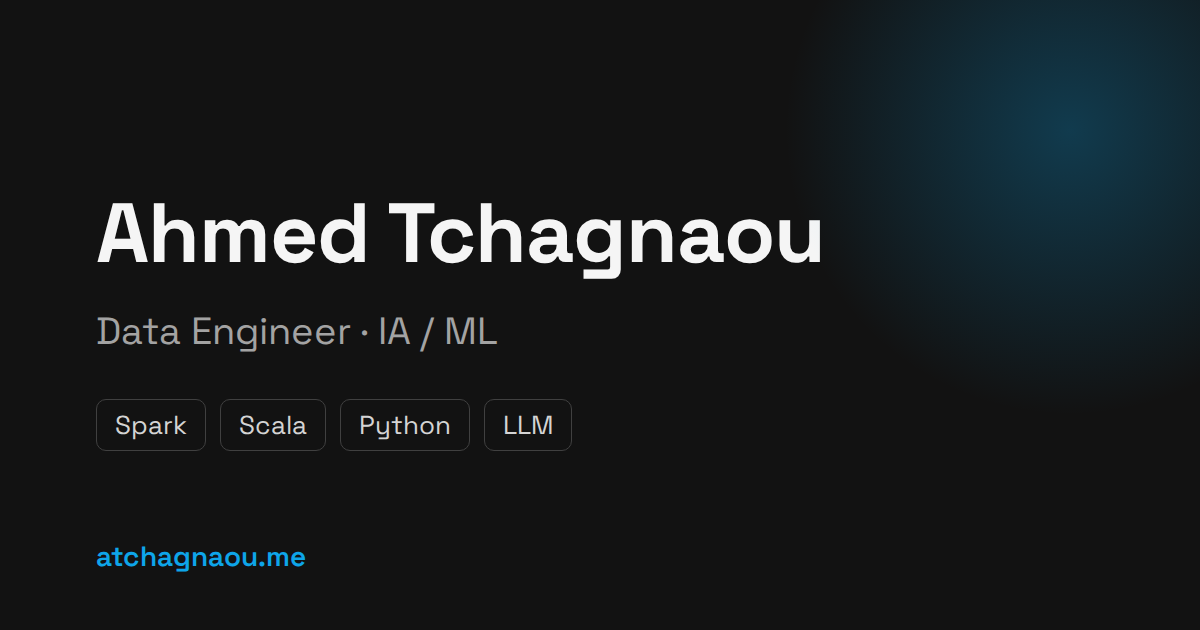
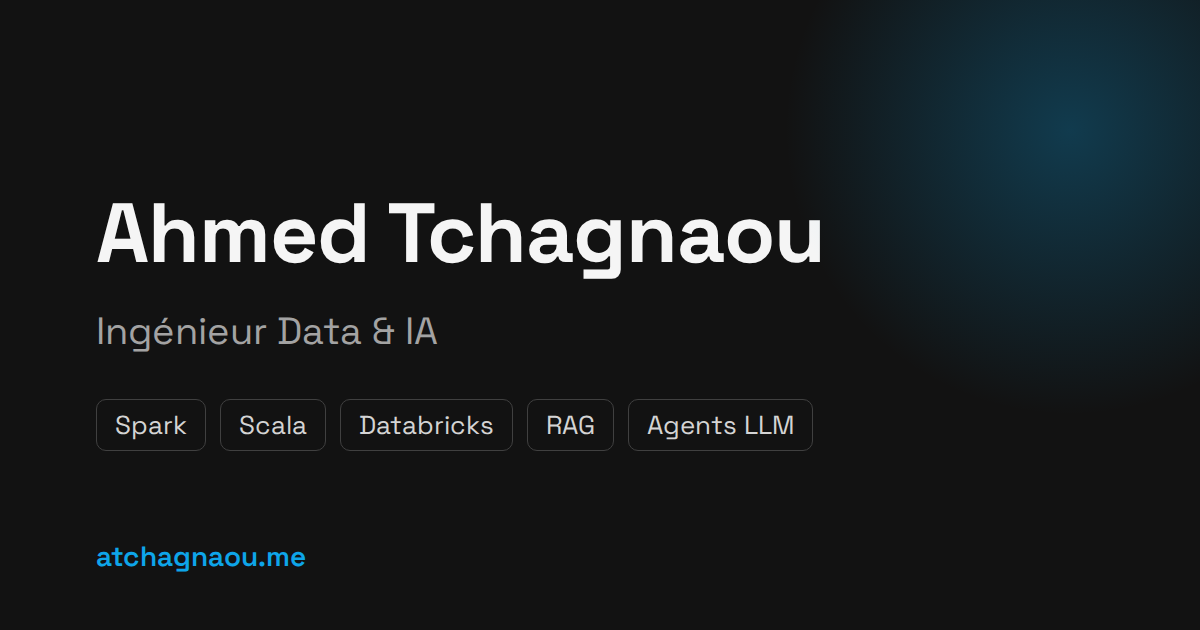
Align portfolio with CV: Data & AI positioning, RAG agent project, detailed experience, Databricks certification

Changed region(s): [[0.0617, 0.4825, 0.4008, 0.573], [0.2775, 0.6333, 0.4933, 0.6937], [0.5242, 0.6635, 0.6783, 0.7238]]

diff --git a/layouts/index.html b/layouts/index.html
@@ -57,14 +57,14 @@
                     <div class="carousel-track carousel-track-left-to-right">
                         {{- range .row1 -}}
                             <div class="carousel-item">
-                                <i class="{{ .icon }}"></i>
+                                {{ with .icon }}<i class="{{ . }}"></i>{{ end }}
                                 <span class="text-xl">{{ .name }}</span>
                             </div>
                         {{- end -}}
                         {{/* Duplicates */}}
                         {{- range .row1 -}}
                             <div class="carousel-item">
-                                <i class="{{ .icon }}"></i>
+                                {{ with .icon }}<i class="{{ . }}"></i>{{ end }}
                                 <span class="text-xl">{{ .name }}</span>
                             </div>
                         {{- end -}}
@@ -75,14 +75,14 @@
                     <div class="carousel-track-reverse">
                         {{- range .row2 -}}
                             <div class="carousel-item">
-                                <i class="{{ .icon }}"></i>
+                                {{ with .icon }}<i class="{{ . }}"></i>{{ end }}
                                 <span class="text-xl">{{ .name }}</span>
                             </div>
                         {{- end -}}
                         {{/* Duplicates */}}
                         {{- range .row2 -}}
                             <div class="carousel-item">
-                                <i class="{{ .icon }}"></i>
+                                {{ with .icon }}<i class="{{ . }}"></i>{{ end }}
                                 <span class="text-xl">{{ .name }}</span>
                             </div>
                         {{- end -}}

diff --git a/layouts/_default/about.html b/layouts/_default/about.html
@@ -21,15 +21,16 @@
                 <h2 class="text-2xl md:text-3xl font-bold mb-4 md:mb-6 text-text-primary-light dark:text-text-primary-dark">{{ i18n "certificationsTitle" }}</h2>
                 <div class="grid grid-cols-1 md:grid-cols-2 gap-4">
                     {{ range $author.certifications }}
-                    <a href="{{ .url }}"
-                       target="_blank"
+                    <a {{ with .url }}href="{{ . }}" target="_blank" rel="noopener noreferrer"{{ end }}
                        class="flex flex-col h-full p-4 md:p-6 rounded-lg bg-bg-primary-light dark:bg-bg-secondary-dark border border-border-primary-light dark:border-border-primary-dark hover:shadow-md transition-all duration-300">
                         <div class="flex items-center justify-between mb-4">
                             <h3 class="inline-flex items-center text-lg md:text-xl font-semibold text-text-primary-light dark:text-text-primary-dark">
                                 {{ .title }}
+                                {{ if .url }}
                                 <svg xmlns="http://www.w3.org/2000/svg" width="16" height="16" viewBox="0 0 24 24" fill="none" stroke="currentColor" stroke-width="2" stroke-linecap="round" stroke-linejoin="round" class="ml-2 opacity-70 group-hover:opacity-100 transition-opacity duration-200">
                                     <path d="M7 17l9.2-9.2M17 17V7H7"/>
                                 </svg>
+                                {{ end }}
                             </h3>
                         </div>
                         <p class="text-text-secondary-light dark:text-text-secondary-dark text-sm prose mb-1">{{ .company }}</p>

diff --git a/content/fr/about.md b/content/fr/about.md
@@ -2,9 +2,10 @@
 title: "À propos de moi"
 draft: false
 layout: "about"
-description: "Une description brève de moi et de mon parcours"
 ---
 
-Ingénieur de données avec près de 5 ans d'expérience en ESN, j'interviens sur des projets à fort enjeu pour des clients grands comptes. Je conçois et maintiens des pipelines de données robustes sur des environnements distribués, avec des volumes allant jusqu'à plusieurs téraoctets.
+Ingénieur Data & IA, j'ai près de 5 ans de data engineering en production chez CGI pour des clients grands comptes : pipelines batch de 2 à 3 To, data lake, contraintes de disponibilité et autonomie sur plusieurs applications.
 
-Passionné par l'ensemble de la chaîne de la donnée, je souhaite évoluer vers un profil full-stack data — à la croisée de l'architecture data, du data engineering et de l'IA/ML — en concevant des solutions centrées sur les données qui tirent parti de la puissance des systèmes distribués et de l'intelligence artificielle.
+Je m'oriente vers l'IA générative appliquée à la donnée : pipelines RAG évalués (hit@k, recall@k, MRR), agents LLM à tool calling et API conteneurisées (FastAPI, Docker). J'approfondis actuellement la recherche hybride BM25, le reranking, l'évaluation de la fidélité (RAGAS) et LangGraph.
+
+Certifié **Azure AI Engineer Associate** et **Databricks Data Engineer Associate**.

diff --git a/content/en/about.md b/content/en/about.md
@@ -2,9 +2,10 @@
 title: "About Me"
 draft: false
 layout: "about"
-description: "A brief description of me and my background"
 ---
 
-A data engineer with nearly 5 years of experience in an IT services company, I work on high-stakes projects for major clients. I design and maintain robust data pipelines on distributed environments, handling volumes up to several terabytes.
+A Data & AI Engineer with nearly 5 years of production data engineering at CGI for major clients: 2–3 TB batch pipelines, data lake, availability constraints and autonomy over several applications.
 
-Passionate about the entire data chain, I aim to grow into a full-stack data profile — at the intersection of data architecture, data engineering, and AI/ML — building data-centric solutions that harness the power of distributed systems and artificial intelligence.
+I am moving toward generative AI applied to data: evaluated RAG pipelines (hit@k, recall@k, MRR), tool-calling LLM agents and containerized APIs (FastAPI, Docker). I am currently deepening hybrid BM25 search, reranking, faithfulness evaluation (RAGAS) and LangGraph.
+
+Certified **Azure AI Engineer Associate** and **Databricks Data Engineer Associate**.

diff --git a/content/fr/experience.md b/content/fr/experience.md
@@ -4,4 +4,6 @@ draft: false
 layout: "experience"
 ---
 
-Ingénieur de données en ESN depuis 2022, j'interviens sur des projets grands comptes. Issu d'une formation en **Génie Logiciel** complétée par un Master en **Big Data Management and Analytics**, j'ai développé une expertise solide en traitement de données à grande échelle, intégration et migration de pipelines, et automatisation. Je souhaite évoluer vers un profil full-stack data, en approfondissant l'IA/ML et l'architecture des systèmes data modernes.
+Ingénieur Data chez CGI depuis 2022, j'interviens sur des projets grands comptes : pipelines batch volumineux, migrations Talend vers Spark/Scala, optimisation et exploitation de data lakes. En parallèle, je développe des projets en IA générative (RAG, agents LLM).
+
+**Formation** : Master en Gestion et Analyse des Mégadonnées (Big Data), Université de Tours (2020 – 2022) · Licence en Informatique, Université de Tours (2019 – 2020) · Licence Professionnelle en Génie Logiciel, Institut Africain d'Informatique (IAI), Togo (2016 – 2019).

diff --git a/content/en/experience.md b/content/en/experience.md
@@ -4,4 +4,6 @@ draft: false
 layout: "experience"
 ---
 
-A data engineer in IT services since 2022, I work on major account projects. With a background in **Software Engineering** complemented by a Master's in **Big Data Management and Analytics**, I have developed solid expertise in large-scale data processing, pipeline integration and migration, and automation. I aim to grow into a full-stack data profile, deepening my knowledge of AI/ML and modern data system architectures.
+A Data Engineer at CGI since 2022, I work on major-account projects: large batch pipelines, Talend to Spark/Scala migrations, data lake optimization and operations. Alongside, I build generative AI projects (RAG, LLM agents).
+
+**Education**: Master's in Big Data Management and Analytics, University of Tours (2020 – 2022) · Bachelor's in Computer Science, University of Tours (2019 – 2020) · Professional Bachelor's in Software Engineering, African Institute of Computer Science (IAI), Togo (2016 – 2019).
